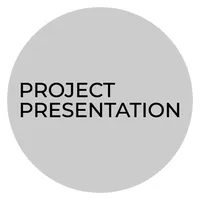
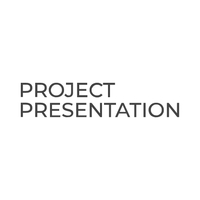
ios mobile adaptations

diff --git a/assets/js/main.js b/assets/js/main.js
@@ -68,15 +68,15 @@ var titleText, titleVrtStart, titleVrtEnd, titleVrtEnding, titleVrtP, titleVrtP2
 		var logo = $('#logo');
 		var logoWrap = $('#logoWrap');
 		var target = $('#targetO');
+		var header = $('#header');
 		
 		var logoWrapH = logoWrap.outerHeight();
 		var logoWrapW = logoWrap.outerWidth();
 		var targetH = target.outerHeight();
 		var targetW = target.outerWidth();
 
-		
 		var desOffsetTop = !shrink ? $(window).height()/2 - logoWrapH/2 : target.offset().top  - logoWrapH/2 + targetH/2;
-		var desOffsetLeft = !shrink ? $(window).width()/2 -logoWrapW/2 - $(window).scrollLeft() : target.offset().left - $(window).scrollLeft() - logoWrapW/2 + targetW/2;
+		var desOffsetLeft = !shrink ? $(window).width()/2 -logoWrapW/2 : target.offset().left - logoWrapW/2 + targetW/2;
 		
 		var startOffsetTop = !shrink ? target.offset().top - logoWrapH/2 + targetH/2 : $(window).height()/2 -logoWrapH/2;
 		var startOffsetLeft = !shrink ? target.offset().left - logoWrapW/2 + targetW/2 : $(window).width()/2 -logoWrapW/2;
@@ -84,7 +84,8 @@ var titleText, titleVrtStart, titleVrtEnd, titleVrtEnding, titleVrtP, titleVrtP2
 		var startVal = !shrink ? target.outerHeight() / logoWrap.outerHeight() : 1;
 		var destVal = !shrink ? 1 : target.outerHeight() / logoWrap.outerHeight();
 		
-		var appnd = !shrink ? 'body' : '#menuLogo > a';
+		var appnd = !shrink ? '#fullpage' : '#menuLogo > a';
+		var stroke = !shrink ? '#333' : '';
 		
 		var clsMenuRem = !shrink ? '' : 'nopointer';
 		var clsMenuAdd = !shrink ? 'nopointer' : '';
@@ -92,25 +93,29 @@ var titleText, titleVrtStart, titleVrtEnd, titleVrtEnding, titleVrtP, titleVrtP2
 		var clsLogoRem = !shrink ? 'active' : '';
 		var clsLogoAdd = !shrink ? '' : 'active';
 		
-		var wait = 700;
+		var wait = $isMobile ? 500 : 1100;
 		
-		if (shrink == 'resize') {
-			logo.css({'position': 'absolute', 'top': desOffsetTop, 'left': desOffsetLeft, 'transform': 'scale(' + destVal + ')' });
+		if (first == 'resize') {
+			logo.css({'--transTime': 0, 'z-index': '1', 'position': 'absolute', 'top': desOffsetTop, 'left': desOffsetLeft, 'transform': 'scale(' + destVal + ')'});
+			logo.prependTo('#fullpage');
 			return;
 		}
 		
 		if (first == 'start') {
-			logo.css({'position': 'fixed', 'top': desOffsetTop, 'left': desOffsetLeft, 'transform': 'scale(' + destVal + ')' });
-			logo.appendTo('body');
+			logo.css({'z-index': '1', 'position': 'absolute', 'top': desOffsetTop, 'left': desOffsetLeft, 'transform': 'scale(' + destVal + ')' });
+			logo.prependTo('#fullpage');
+			$('svg.svgArrow polyline.menuLine').css('stroke', '#333');
 			return;
 		}
 		
-		logo.css({ 'z-index': '99999999', 'position': 'fixed', 'top': startOffsetTop, 'left': startOffsetLeft });
+		$('svg.svgArrow polyline.menuLine').css('stroke', stroke);
+		logo.css({'z-index': '999999999999', 'position': 'fixed', 'top': startOffsetTop, 'left': startOffsetLeft, '--transTime': wait});
 		logo.css({'transform': 'scale('+destVal+')', top: desOffsetTop, left: desOffsetLeft})
 		$('#menuLogo').removeClass(clsMenuRem).addClass(clsMenuAdd);
 		window.setTimeout(function () {
+			logo.css({'z-index': '1'});
 			$('#menu').removeClass(clsLogoRem).addClass(clsLogoAdd);
-			logo.appendTo(appnd);
+			logo.prependTo(appnd);
 		}, wait);
 		
 	}
@@ -294,11 +299,14 @@ $(document).ready(function() {
 			updateMainMedia();
 			
 			if ($('.section').index(curSection) == 0 && $('.section.active .slide').index(curSlide) == 1) {
-				relocateOnce('resize');
+				relocateOnce(true, 'resize');
+			}
+			if ($('.section').index(curSection) == 0 && $('.section.active .slide').index(curSlide) == 0) {
+				relocateOnce(false, 'resize');
 			}
 			else {
 				stopLogoAnim = true;
-				relocateLogo('resize');
+				relocateOnce(true, 'resize');
 				setTimeout(function() {
 					stopLogoAnim = false;
 				}, 500);

diff --git a/assets/css/main.css b/assets/css/main.css
@@ -914,13 +914,7 @@ li {
 #header > h4 {
 	margin-top: calc(var(--tSize)*1) !important;
 }
-html body [data-ca3_iconfont="ETmodules"]::before {
-	font-family: "ETmodules";
-}
-[data-ca3_icon]::before {
-	font-weight: normal;
-	content: attr(data-ca3_icon);
-}
+
 .ca3-scroll-down-arrow {
[1 lines of base64/hex data omitted]
 	background-size: contain;
@@ -935,21 +929,32 @@ html body [data-ca3_iconfont="ETmodules"]::before {
 	margin: 0px 0 0 0;
 	line-height: var(--arrowSize);
 	left: calc(25% - var(--arrowSize)/2);
-	bottom: calc(var(--arrowSize)/4);
+	bottom: min(var(--arrowSize), 8vh);
 	color: #000;
 	text-align: center;
 	font-size: var(--arrowSize);
 	z-index: 100;
 	text-decoration: none;
-	text-shadow: 0px 0px 3px rgba(0, 0, 0, 0.4);
+	
 	-webkit-animation: ca3_fade_move_down 2s ease-in-out infinite;
 	-moz-animation: ca3_fade_move_down 2s ease-in-out infinite;
 	animation: ca3_fade_move_down 2s ease-in-out infinite;
 	
+	
+	
 	position:absolute;
 	z-index:9999999999999999999;	
 }
-
+.ca3-scroll-down-link:before {
+	content: 'WORKS';
+	font-size: max(calc(var(--tSize)*1.5), 0.7rem);
+	text-transform: uppercase;
+	top: 0.5rem;
+	position: absolute;
+	left: 50%;
+	transform: translate(-50%, 0);
+	white-space: nowrap;
+}
 
 /*animated scroll arrow animation*/
 @-webkit-keyframes ca3_fade_move_down {
@@ -1206,15 +1211,15 @@ section.active div.projectTitle {
 	transform: translateX(0);
 }
 #logo {
+	--transTime: 1100;
 	mix-blend-mode: difference !important;
-	-moz-transition: all 0.7s ease;
-	-webkit-transition: all 0.7s ease;
-	-ms-transition: all 0.7s ease;
-	transition: all 0.7s ease;
+	-moz-transition: all calc(var(--transTime) * 1ms) ease;
+	-webkit-transition: all calc(var(--transTime) * 1ms) ease;
+	-ms-transition: all calc(var(--transTime) * 1ms) ease;
+	transition: all calc(var(--transTime) * 1ms) ease;
+	transform-origin: 50 50%;
 }
-#logoWrap {
-	background-color: white;
-}
+
 #header > div.center {
 	pointer-events: none;
 }

diff --git a/index.html b/index.html
@@ -86,11 +86,11 @@
 <!-- /Wrapper --> 
 
 <!-- Sections -->
-<div id="fullpage"> 
+<div id="fullpage" style="background-color: #ffffff !important"> 
 	
 	<!-- Home -->
-	<section class="section home" style="" data-anchor="intro">
-		<div class="slide" data-anchor="home">
+	<section id="sectionHome" class="section home" data-anchor="intro">
+		<div class="slide" data-anchor="home" style="background-color: transparent !important" >
 			<div id="content">
 				<header id="header">
 					<div id="logo" class=""> 
@@ -98,7 +98,7 @@
 					<div class="center absolute">
 						<h1>Tom Melloul</h1>
 						<h3>Architect &amp; Creative Coder</h3>
-						<div class="btn view-right"><a href="#">About</a></div>
+						<div class="btn view-right"><a href="#">About Me</a></div>
 					</div>
 				</header>
 			</div>
